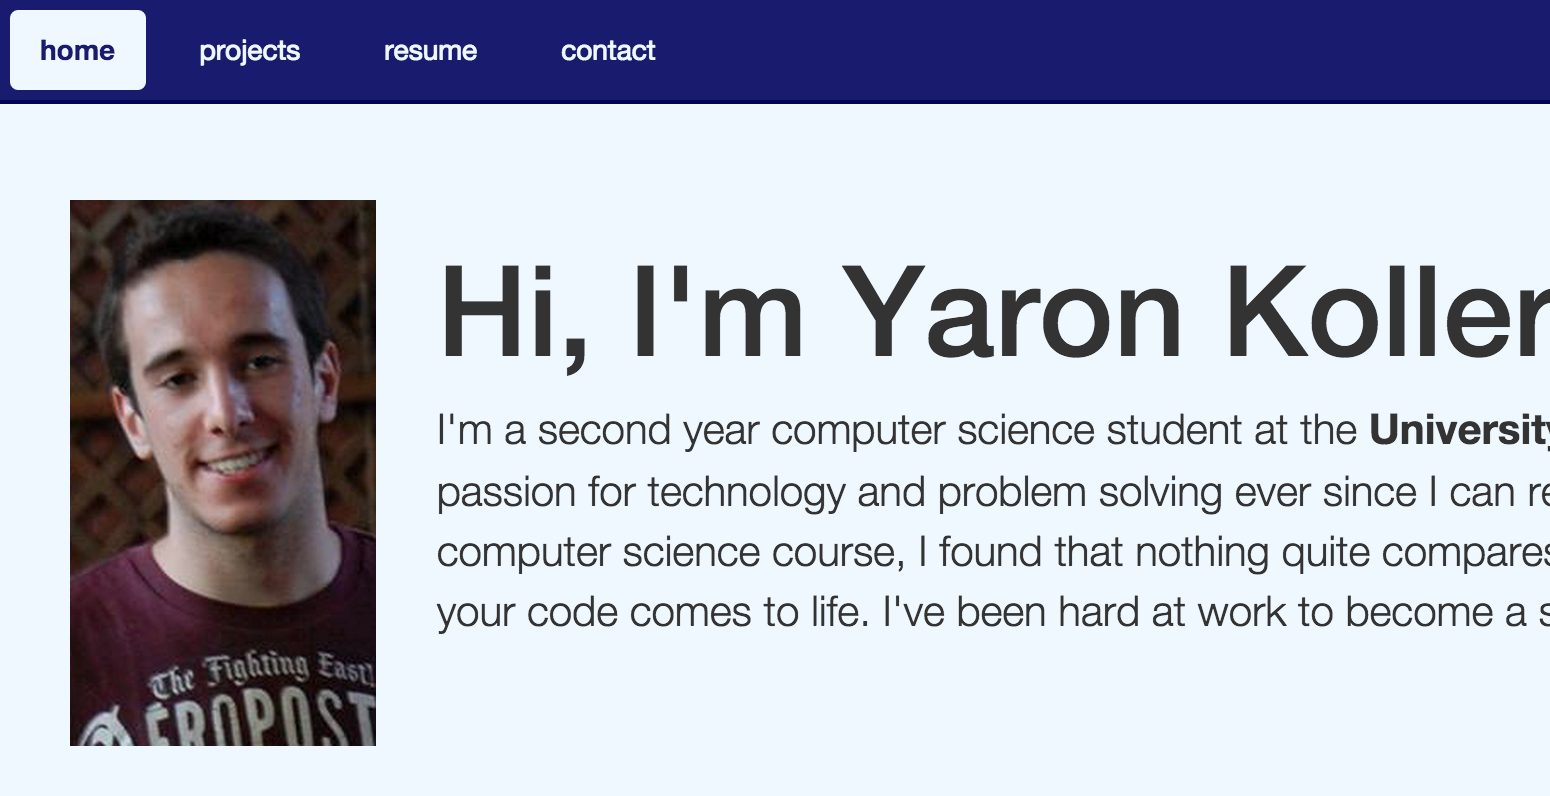
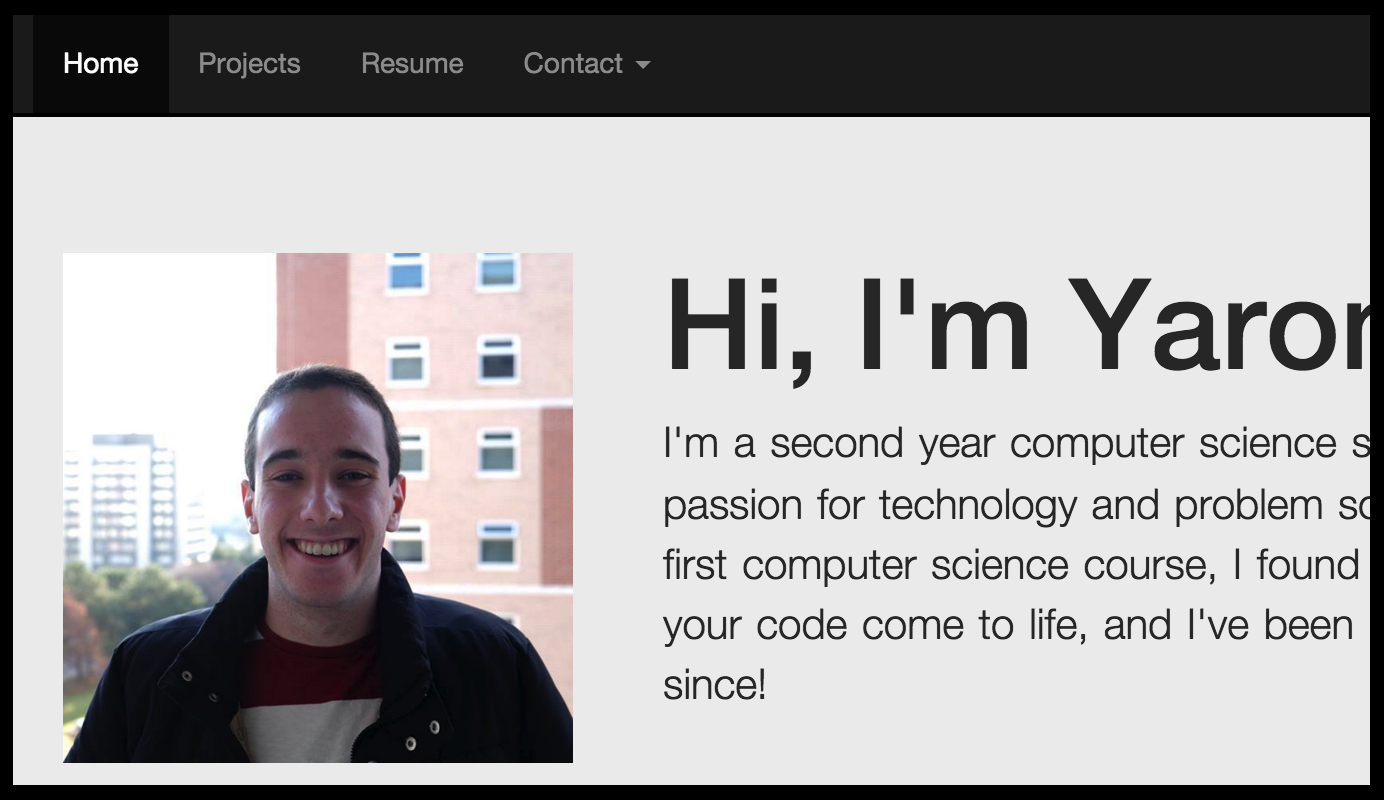
General stylistic changes and updated images

diff --git a/index.html b/index.html
@@ -13,23 +13,19 @@
 		<nav class="navbar-inverse">
 			<div class="container">
 				<ul class="nav navbar-nav">
-					<li class="home-btn active">
+					<li class="btn-home active">
 						<a href="#">Home</a>
 					</li>
-
-					<li class="projects-btn">
+					<li class="btn-projects">
 						<a href="#">Projects</a>
 					</li>
-
 					<li>
 						<a href="resume.pdf">Resume</a>
 					</li>
-
 					<li>
 						<a href="#" data-toggle="dropdown">
 							Contact <span class="caret"></span>
 						</a>
-
 						<ul class="dropdown-menu">
 							<li class="dropdown-header">Email</li>
 							<li>
@@ -38,9 +34,7 @@
 							<li>
 								<a href="mailto:ykoller@uwaterloo.ca">ykoller@uwaterloo.ca</a>
 							</li>
-
 							<li class="divider"></li>
-
 							<li class="dropdown-header">GitHub</li>
 							<li>
 								<a href="https://github.com/YaronKoller">github.com/yaronkoller</a>
@@ -53,9 +47,8 @@
 
 		<div class="home jumbotron row show">
 			<div class="container">
-				<img class="col-md-2" src="images/me.png">
-
-				<div class="col-md-10">
+				<img class="col-md-3" src="images/me.jpg">
+				<div class="col-md-9">
 					<h1>Hi, I'm Yaron Koller.</h1>
 					<p>
 						I'm a second year computer science student at the <b>University of Waterloo.</b> I've had a passion for technology and problem solving ever since I can remember. When I took my first computer science course, I found that nothing quite compares to the thrill of seeing your code come to life, and I've been hard at work to become a software engineer ever since!
@@ -66,52 +59,67 @@
 
 		<div class="projects jumbotron">
 			<div class="container">
-				<div class="project row show">
-					<div class="col-md-7">
-						<h3>
-							<a href="https://github.com/FroshBite/Blind">Blind</a>
-						</h3>
-						<p>
-							A 2D role-playing game, made using the Unity game engine and coded in C#. The game is unique in that, rather than giving the user numbers and statistics, it gives written descriptions of health, damage, etc. I have been working on Blind as part of a team comprising of <a href="https://github.com/ggkevinxing">Kevin Xing</a>, <a href="https://github.com/shanpls">Shan Phylim</a>, and myself (with some additional help from <a href="https://github.com/adijp">Aditya Jayaprakash</a>). Blind is an ongoing project and has taught me a lot about teamwork and project management.
-						</p>
+				<div class="project show">
+					<h2>
+						Blind
+						<a href="https://github.com/FroshBite/Blind">
+							<span class="glyphicon glyphicon-link"></span>
+						</a>
+					</h2>
+					<div class="row">
+						<div class="col-md-8">
+							<p>
+								A 2D role-playing game, made using the Unity game engine and coded in C#. The game is unique in that, rather than giving the user numbers and statistics, it gives written descriptions of health, damage, etc. I have been working on Blind as part of a team comprising of <a href="https://github.com/ggkevinxing">Kevin Xing</a>, <a href="https://github.com/shanpls">Shan Phylim</a>, and myself (with some additional help from <a href="https://github.com/adijp">Aditya Jayaprakash</a>). Blind is an ongoing project and has taught me a lot about teamwork and project management.
+							</p>
+						</div>
+						<img class="col-md-4" src="images/blind.png">
 					</div>
-					<img class="col-md-5" src="images/blind.png">
 				</div>
 
-				<div class="project row">
-					<div class="col-md-7">
-						<h3>
-							<a href="https://github.com/YaronKoller/MyZelda">MyZelda</a>
-						</h3>
-						<p>
-							My own personal take on The Legend of Zelda, a classic Nintendo video game. As with my other video game project, MyZelda was developed in Unity and coded in C#. This project marked my first time coding in C# as well as my first time using Git on command-line for version control. Despite being a little unpolished in its final form, MyZelda was a great learning experience, teaching me many skills that I have used in all of my subsequent projects.
-						</p>
+				<div class="project">
+					<h2>
+						MyZelda
+						<a href="https://github.com/YaronKoller/MyZelda">
+							<span class="glyphicon glyphicon-link"></span>
+						</a>
+					</h2>
+					<div class="row">
+						<div class="col-md-8">
+							<p>
+								My own personal take on The Legend of Zelda, a classic Nintendo video game. As with my other video game project, MyZelda was developed in Unity and coded in C#. This project marked my first time coding in C# as well as my first time using Git on command-line for version control. Despite being a little unpolished in its final form, MyZelda was a great learning experience, teaching me many skills that I have used in all of my subsequent projects.
+							</p>
+						</div>
+						<img class="col-md-4" src="images/myzelda.png">
 					</div>
-					<img class="col-md-5" src="images/myzelda.png">
 				</div>
 
-				<div class="project row">
-					<div class="col-md-7">
-						<h3>
-							<a href="https://github.com/YaronKoller/YaronKoller.github.io">Personal website</a>
-						</h3>
-						<p>
-							If you're reading this, you must have already gotten a glimpse of what this project is about! My personal website is a work in progress and is meant to showcase some of my projects, along with my resume and some contact information. It is currently written only in HTML and CSS (with some help from Bootstrap), and is my first real attempt at web development. I hope to add a lot more to this website in the future (such as interactive features, once I learn JavaScript).
-						</p>
+				<div class="project">
+					<h2>
+						Personal website
+						<a href="https://github.com/YaronKoller/YaronKoller.github.io">
+							<span class="glyphicon glyphicon-link"></span>
+						</a>
+					</h2>
+					<div class="row">
+						<div class="col-md-8">
+							<p>
+								If you're reading this, you must have already gotten a glimpse of what this project is about! My personal website is a work in progress and is meant to showcase some of my projects, along with my resume and some contact information. It is currently written only in HTML and CSS (with some help from Bootstrap), and is my first real attempt at web development. I hope to add a lot more to this website in the future (such as interactive features, once I learn JavaScript).
+							</p>
+						</div>
+						<img class="col-md-4" src="images/website.png">
 					</div>
-					<img class="col-md-5" src="images/website.png">
 				</div>
 			</div>
 
-			<div class="btn-group btn-group-justified" role="group">
-				<div class="btn-group" role="group">
-					<button type="button" class="btn btn-primary btn-lg prev-btn">
-	  					<span class="glyphicon glyphicon-triangle-left"></span>
+			<div class="btn-group btn-group-justified">
+				<div class="btn-group">
+					<button class="btn btn-primary btn-lg btn-prev">
+	  					<span class="glyphicon glyphicon-chevron-left"></span>
 					</button>
 				</div>
-				<div class="btn-group" role="group">
-					<button type="button" class="btn btn-primary btn-lg next-btn">
-	  					<span class="glyphicon glyphicon-triangle-right"></span>
+				<div class="btn-group">
+					<button class="btn btn-primary btn-lg btn-next">
+	  					<span class="glyphicon glyphicon-chevron-right"></span>
 					</button>
 				</div>
 			</div>

diff --git a/js/app.js b/js/app.js
@@ -1,21 +1,21 @@
 function main() {
-	$('.home-btn').click(function() {
-		$('.projects-btn').removeClass('active');
+	$('.btn-home').click(function() {
+		$('.btn-projects').removeClass('active');
 		$(this).addClass('active');
 
 		$('.projects').removeClass('show');
 		$('.home').addClass('show');
 	});
 
-	$('.projects-btn').click(function() {
-		$('.home-btn').removeClass('active');
+	$('.btn-projects').click(function() {
+		$('.btn-home').removeClass('active');
 		$(this).addClass('active');
 
 		$('.home').removeClass('show');
 		$('.projects').addClass('show');
 	});
 
-	$('.next-btn').click(function() {
+	$('.btn-next').click(function() {
 		var current = $('.project.show');
 		var next = current.next();
 
@@ -29,7 +29,7 @@ function main() {
 		});
 	});
 
-	$('.prev-btn').click(function() {
+	$('.btn-prev').click(function() {
 		var current = $('.project.show');
 		var prev = current.prev();
 

diff --git a/css/main.css b/css/main.css
@@ -7,24 +7,41 @@
 	display: none;
 }
 
-.show {
-	display: block;
-}
-
 .project {
 	display: none;
 }
 
+.show {
+	display: block;
+}
+
 .btn-group-justified {
-	padding-top: 3%;
+	padding-top: 5%;
 	padding-left: 25%;
 	padding-right: 25%;
 }
 
-h3 {
-	margin-top: 0;
-}
-
 img {
 	width: 100%;
+}
+
+.home img {
+	margin-top: 20px;
+}
+
+p {
+	text-align: justify;
+}
+
+.projects p {
+	margin-right: 15px;
+}
+
+
+h1, .home p {
+	margin-left: 15px;
+}
+
+h2 {
+	margin-top: 0;
 }
